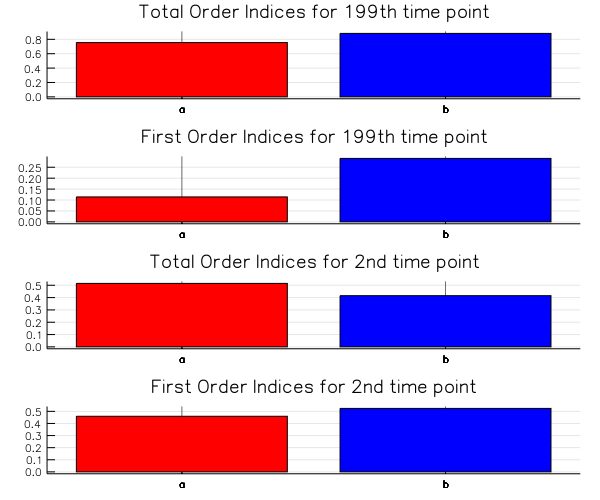
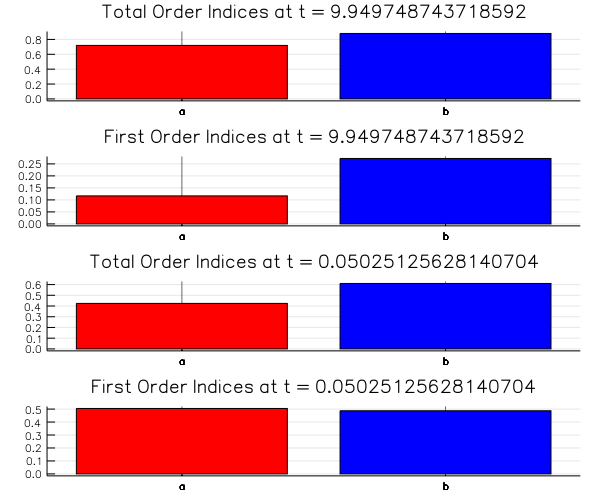
please merge this now, I am tired of docs

diff --git a/docs/src/analysis/sensitivity.md b/docs/src/analysis/sensitivity.md
@@ -568,13 +568,13 @@ by default it gives the second order indices. Again the result is obtained over 
 We plot the first order and total order Sobol Indices for some timepoints for each of the parameters (`a` and `b`).
 
 ``julia
-p1 = bar(["a","b"],[s0[1][end-2],s0[2][end-2]],color=[:red,:blue],title="Total Order Indices for 199th time point",legend=false)
-p2 = bar(["a","b"],[s1[1][end-2],s1[2][end-2]],color=[:red,:blue],title="First Order Indices for 199th time point",legend=false)
-p3 = bar(["a","b"],[s0[1][3],s0[2][3]],color=[:red,:blue],title="Total Order Indices for 2nd time point",legend=false)
-p4 = bar(["a","b"],[s1[1][3],s1[2][3]],color=[:red,:blue],title="First Order Indices for 2nd time point",legend=false)
+p1 = bar(["a","b"],[s0[1][end-2],s0[2][end-2]],color=[:red,:blue],title="Total Order Indices at t=9.949748743718592",legend=false)
+p2 = bar(["a","b"],[s1[1][end-2],s1[2][end-2]],color=[:red,:blue],title="First Order Indices at t=9.949748743718592",legend=false)
+p3 = bar(["a","b"],[s0[1][3],s0[2][3]],color=[:red,:blue],title="Total Order Indices at t=0.05025125628140704",legend=false)
+p4 = bar(["a","b"],[s1[1][3],s1[2][3]],color=[:red,:blue],title="First Order Indices at t=0.05025125628140704",legend=false)
 plo = plot(p1,p2,p3,p4,layout=(4,1),size=(600,500))
 ```
 ![sobolplot](../assets/sobolbars.png)
 
-Here we plot the Sobol indices of first order and the total Sobol indices for the parameters `a` and `b`. The plots are obtained by getting the Sobol Indices at the 199th and the 2nd time point of the first dependent variable `x` from the 200-length sensitivities over the entire time span. The length of the bar represents the quantification of the sensitivity of the output to that parameter and hence for the 199th time point you can say that `x` is more sensitive to `b`, also you can observe how the relative difference between `a` and `b` is larger in the first order than the total order indices, this tells us that most of the contribution of `a` to `x` arises from interactions and it's individual non-interaction contribution is significantly lesser than `b` and vice-versa for `b` as it's first order plot indicates quite high value.
+Here we plot the Sobol indices of first order and the total Sobol indices for the parameters `a` and `b`. The plots are obtained by getting the Sobol Indices at the `t = 9.949748743718592` and the `t = 0.05025125628140704` time point of the first dependent variable `x(t)` from the 200-length sensitivities over the entire time span. The length of the bar represents the quantification of the sensitivity of the output to that parameter and hence for the 199th time point you can say that `x(t)` is more sensitive to `b`, also you can observe how the relative difference between `a` and `b` is larger in the first order than the total order indices, this tells us that most of the contribution of `a` to `x(t)` arises from interactions and it's individual non-interaction contribution is significantly lesser than `b` and vice-versa for `b` as it's first order plot indicates quite high value.
 
